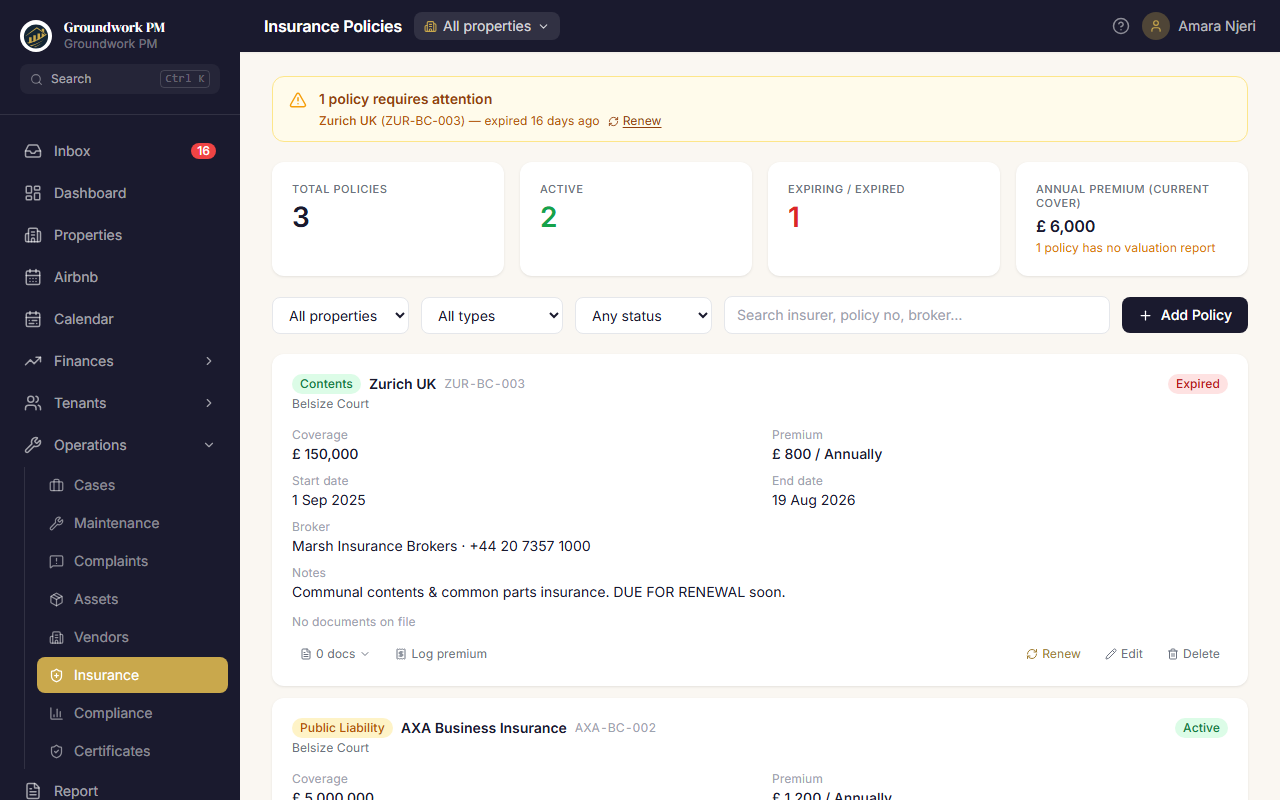
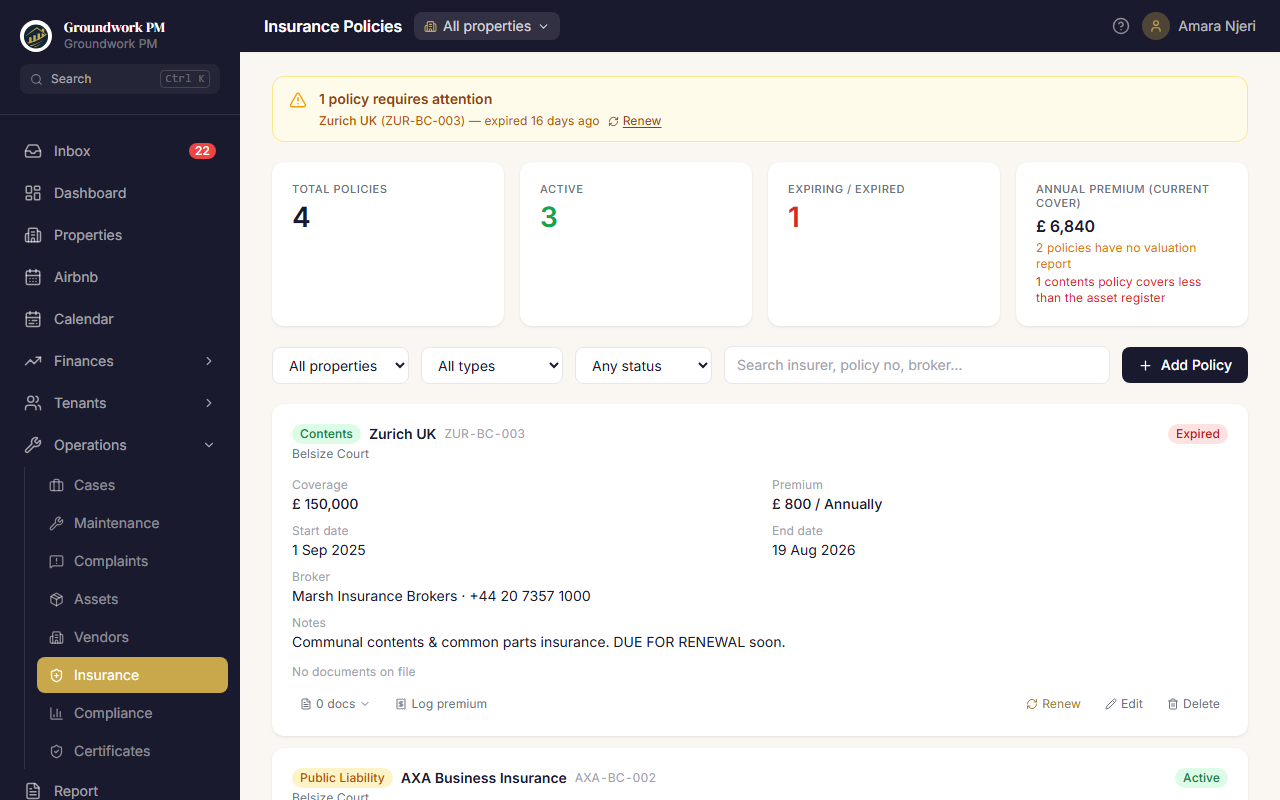
Guide: refresh the insurance and asset register screenshots; add the contents-cover card shot

diff --git a/public/guide.html b/public/guide.html
@@ -1802,6 +1802,12 @@
       <ul class="feature-list">
         <li><strong>Paperwork lives on the policy</strong> — the add / edit form has a Documents section, so the policy schedule, certificate, the <em>valuation report</em> the sum insured is based on, the insurer's survey or risk assessment, claims correspondence and premium receipts are filed as you enter the policy. Each file carries a category, a label and the date on the document (the valuation date, say). Files chosen while creating a policy upload as soon as it is saved; the card's <em>docs</em> panel adds or removes files later.</li>
         <li><strong>What's on file is visible at a glance</strong> — the card shows chips for the categories attached, and a Building or Contents policy with no valuation report is flagged, with a count on the premium KPI card.</li>
+      </ul>
+      <div class="screenshot-wrap" style="margin-top:14px">
+        <img src="guide-screenshots/17b-insurance-contents.png" alt="Contents policy compared with the asset register" loading="lazy">
+        <div class="screenshot-caption">A Contents policy card — documents on file, and the sum insured checked against the asset register</div>
+      </div>
+      <ul class="feature-list">
         <li><strong>Contents cover vs the asset register</strong> — a Contents policy's card compares its sum insured with what the <a href="#operations">Asset Register</a> says the property's in-service assets would cost to replace. It reads <em>Covers the register</em> or <em>Under-insured by …</em> with the shortfall, and tells you when the register has no replacement values or the policy has no sum insured to compare.</li>
         <li><strong>Renew</strong> — an expiring or expired policy has a <em>Renew</em> button that opens a new policy pre-filled with the same cover, dated from the day after the old term ends, so the old policy stays on record. Enter the new policy number and confirm the premium.</li>
         <li><strong>Log premium</strong> — jumps to the Expenses form pre-filled with the premium, the property and the INSURANCE category, so the payment reaches the P&amp;L without retyping.</li>
@@ -1818,7 +1824,7 @@
       <h3>Asset Register</h3>
       <div class="screenshot-wrap">
         <img src="guide-screenshots/19-assets.png" alt="Assets" loading="lazy">
-        <div class="screenshot-caption">Asset Register — inventory with maintenance schedules</div>
+        <div class="screenshot-caption">Asset Register — warranties, replacement values, paperwork and maintenance schedules per asset</div>
       </div>
       <p style="margin-bottom:12px">Maintain an inventory of property assets — appliances, fixtures, furniture, plant &amp; equipment. Each asset can have recurring maintenance schedules and a maintenance log (a logged cost becomes a MAINTENANCE expense automatically, with the vendor carried across). The register tracks serial and model numbers, purchase cost, <em>replacement value</em>, warranty dates, and the service provider.</p>
       <ul class="feature-list">

diff --git a/scripts/capture-screenshots.js b/scripts/capture-screenshots.js
@@ -131,6 +131,17 @@ async function shot(page, name, { waitFor = 'main', fullPage = false, delay = 15
 
   await page.goto(`${BASE_URL}/insurance`);
   await shot(page, '17-insurance');
+  // The renewed Contents policy (ZUR-BC-004, seeded 2026-09) carries the
+  // contents-cover-vs-asset-register line; capture that card on its own.
+  const contentsCard = page.locator('a[href^="/insurance"], [id^="item-"]').filter({ hasText: 'ZUR-BC-004' }).first();
+  if (await contentsCard.count()) {
+    await contentsCard.scrollIntoViewIfNeeded();
+    await page.waitForTimeout(500);
+    await contentsCard.screenshot({ path: path.join(OUT_DIR, '17b-insurance-contents.png') });
+    console.log('✓ 17b-insurance-contents');
+  } else {
+    console.log('⚠ ZUR-BC-004 not found, skipping 17b-insurance-contents');
+  }
 
   await page.goto(`${BASE_URL}/compliance`);
   await shot(page, '18-compliance');
